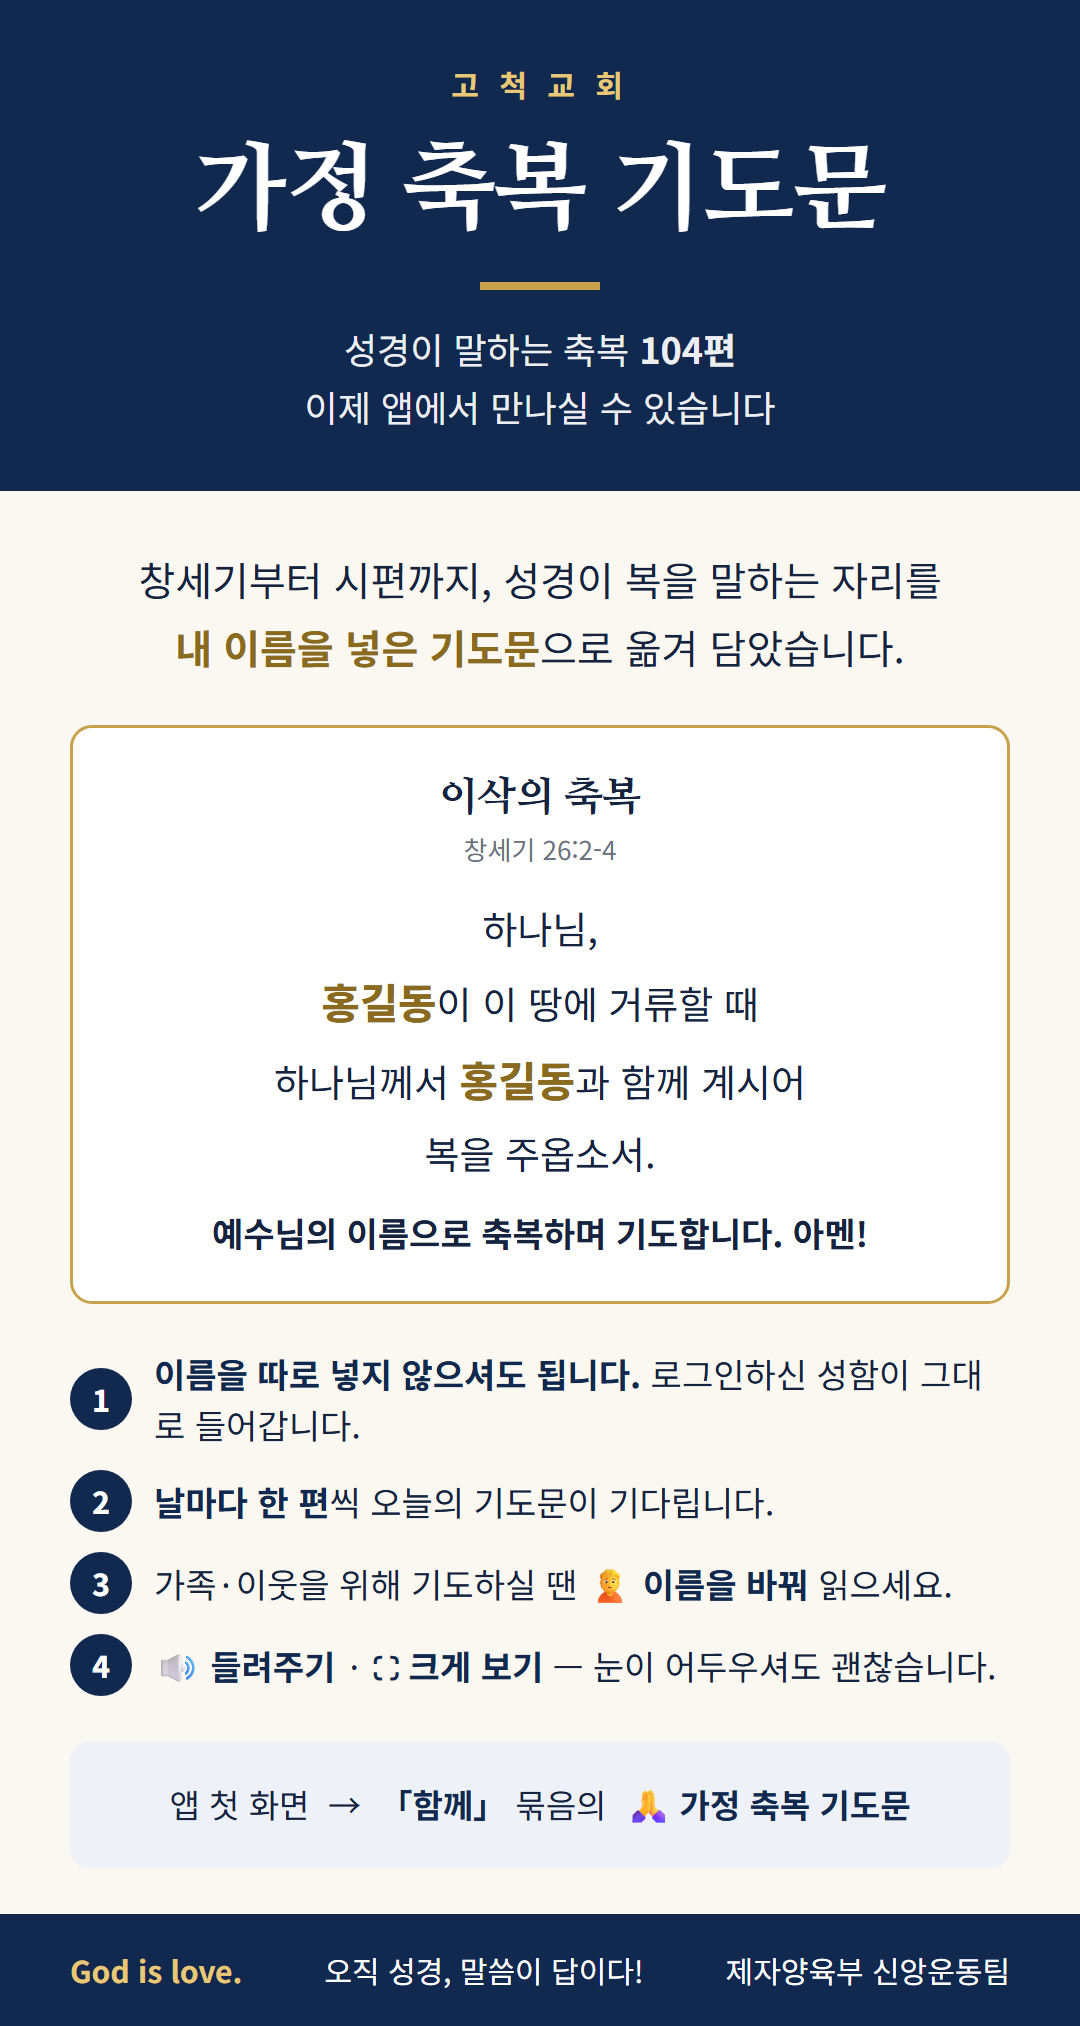
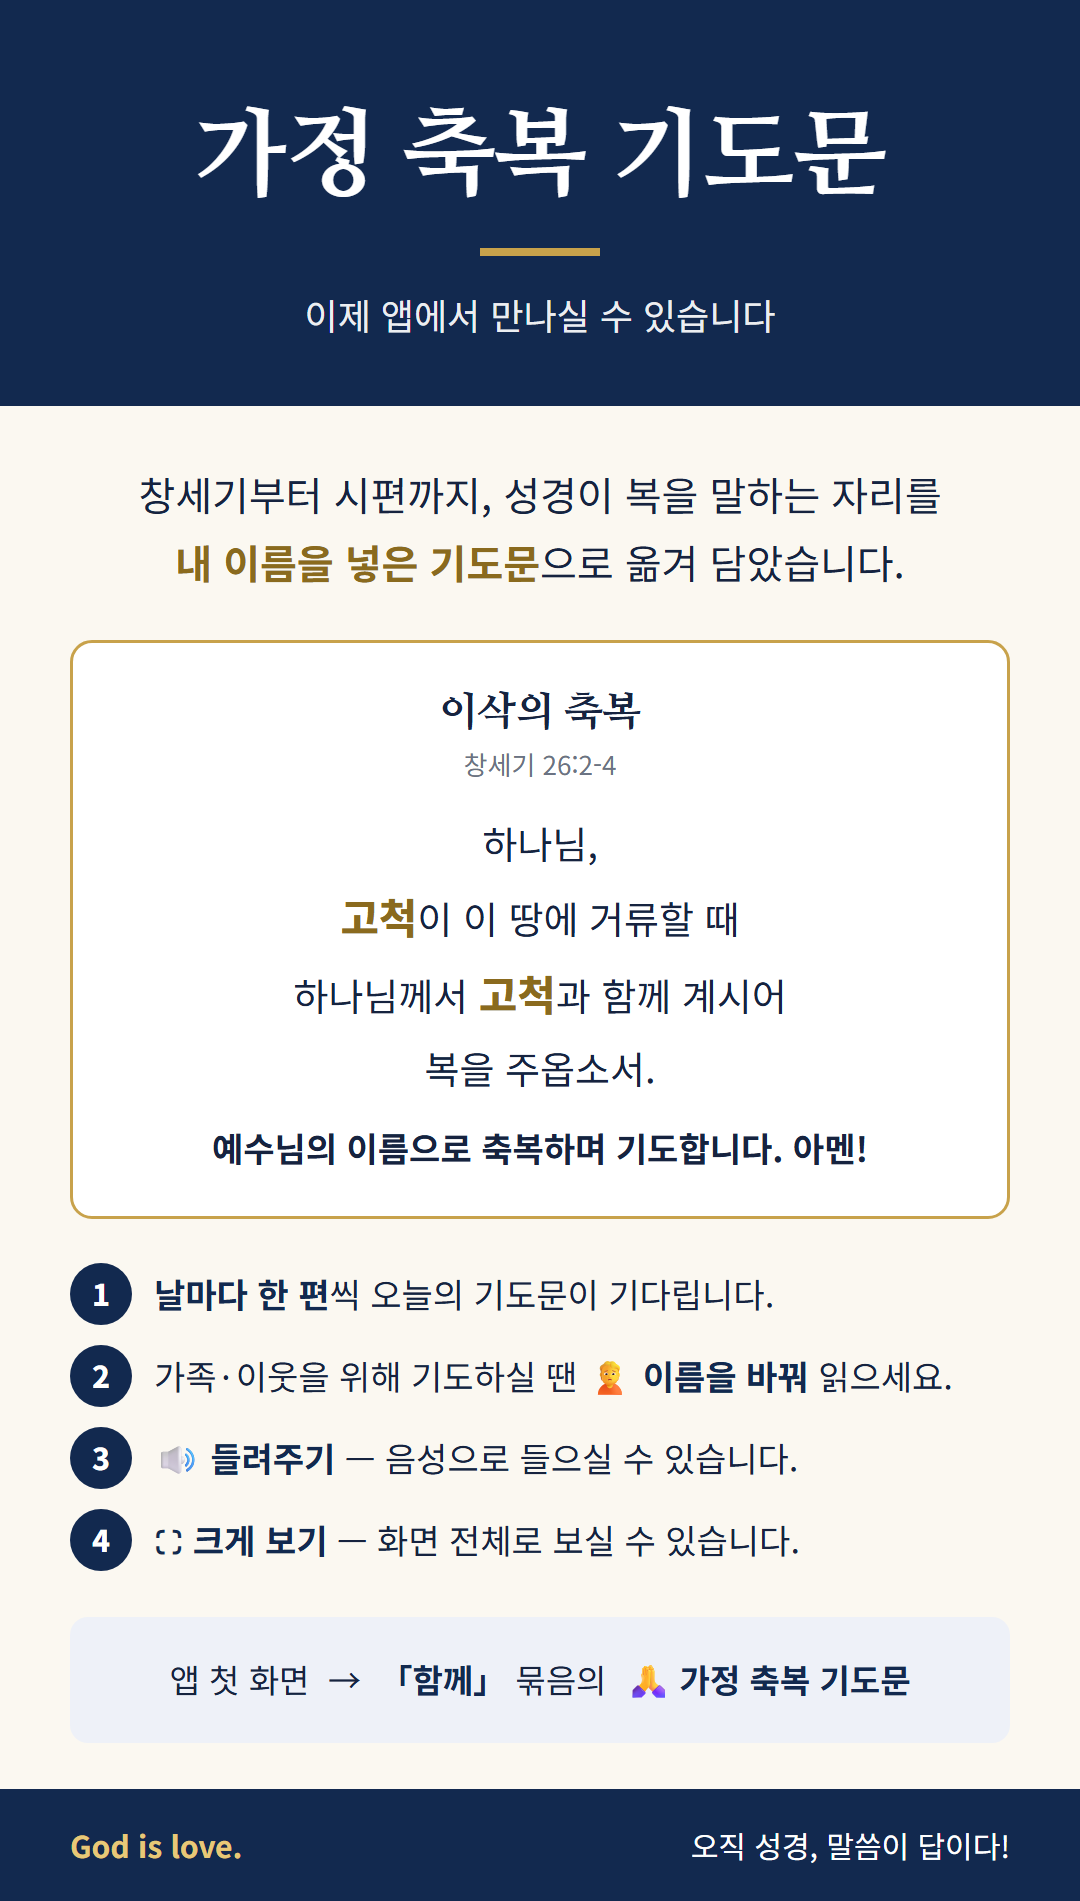
docs(공지): 축복기도문 공지 그림을 요청대로 다듬는다
· 「고 척 교 회」 · 「성경이 말하는 축복 104편」 삭제
· 항목에서 「이름을 따로 넣지 않으셔도」를 빼고 번호를 당김
· 들려주기와 크게 보기를 따로 세워 무엇을 하는지 적음
  🔊 들려주기 — 음성으로 들으실 수 있습니다
  ⛶ 크게 보기 — 화면 전체로 보실 수 있습니다
· 꼬리말의 「제자양육부 신앙운동팀」 삭제
· 맛보기 이름을 「홍길동」에서 「고척」으로

⚠ 높이는 재서 찍는다(1901px). 고정하면 아래가 잘린다 — 처음에 1440 으로
   두었다가 꼬리말이 통째로 잘렸다. 문구를 고치면 높이가 달라지므로
   같은 폴더의 .html 을 고쳐 다시 재고 찍을 것.

diff --git a/marketing/notice/축복기도문_공지.html b/marketing/notice/축복기도문_공지.html
@@ -5,7 +5,7 @@
   * { box-sizing: border-box; margin: 0; }
   body { width: 1080px; min-height: 1440px; font-family: "Noto Sans KR", sans-serif;
          background: #fbf8f1; color: #16233f; display: flex; flex-direction: column; }
-  .top { background: #12294f; color: #fff; padding: 62px 70px 56px; text-align: center; }
+  .top { background: #12294f; color: #fff; padding: 72px 70px 62px; text-align: center; }
   .kicker { font-size: 30px; letter-spacing: 6px; color: #e8c877; font-weight: 700; }
   h1 { font-family: "Nanum Myeongjo", serif; font-size: 96px; font-weight: 800;
        line-height: 1.25; margin-top: 22px; }
@@ -37,10 +37,9 @@
 </style>
 
 <div class="top">
-  <div class="kicker">고 척 교 회</div>
   <h1>가정 축복 기도문</h1>
   <div class="bar"></div>
-  <div class="sub">성경이 말하는 축복 <b>104편</b><br>이제 앱에서 만나실 수 있습니다</div>
+  <div class="sub">이제 앱에서 만나실 수 있습니다</div>
 </div>
 
 <div class="body">
@@ -54,18 +53,18 @@
     <div class="r">창세기 26:2-4</div>
     <div class="p">
       하나님,<br>
-      <span class="nm">홍길동</span>이 이 땅에 거류할 때<br>
-      하나님께서 <span class="nm">홍길동</span>과 함께 계시어<br>
+      <span class="nm">고척</span>이 이 땅에 거류할 때<br>
+      하나님께서 <span class="nm">고척</span>과 함께 계시어<br>
       복을 주옵소서.
     </div>
     <div class="amen">예수님의 이름으로 축복하며 기도합니다. 아멘!</div>
   </div>
 
   <div class="rows">
-    <div class="row"><i>1</i><span><b>이름을 따로 넣지 않으셔도 됩니다.</b> 로그인하신 성함이 그대로 들어갑니다.</span></div>
-    <div class="row"><i>2</i><span><b>날마다 한 편</b>씩 오늘의 기도문이 기다립니다.</span></div>
-    <div class="row"><i>3</i><span>가족·이웃을 위해 기도하실 땐 <b>🙍 이름을 바꿔</b> 읽으세요.</span></div>
-    <div class="row"><i>4</i><span><b>🔊 들려주기</b> · <b>⛶ 크게 보기</b> — 눈이 어두우셔도 괜찮습니다.</span></div>
+    <div class="row"><i>1</i><span><b>날마다 한 편</b>씩 오늘의 기도문이 기다립니다.</span></div>
+    <div class="row"><i>2</i><span>가족·이웃을 위해 기도하실 땐 <b>🙍 이름을 바꿔</b> 읽으세요.</span></div>
+    <div class="row"><i>3</i><span><b>🔊 들려주기</b> — 음성으로 들으실 수 있습니다.</span></div>
+    <div class="row"><i>4</i><span><b>⛶ 크게 보기</b> — 화면 전체로 보실 수 있습니다.</span></div>
   </div>
 
   <div class="how">
@@ -76,5 +75,4 @@
 <div class="foot">
   <span class="g">God is love.</span>
   <span>오직 성경, 말씀이 답이다!</span>
-  <span>제자양육부 신앙운동팀</span>
 </div>
